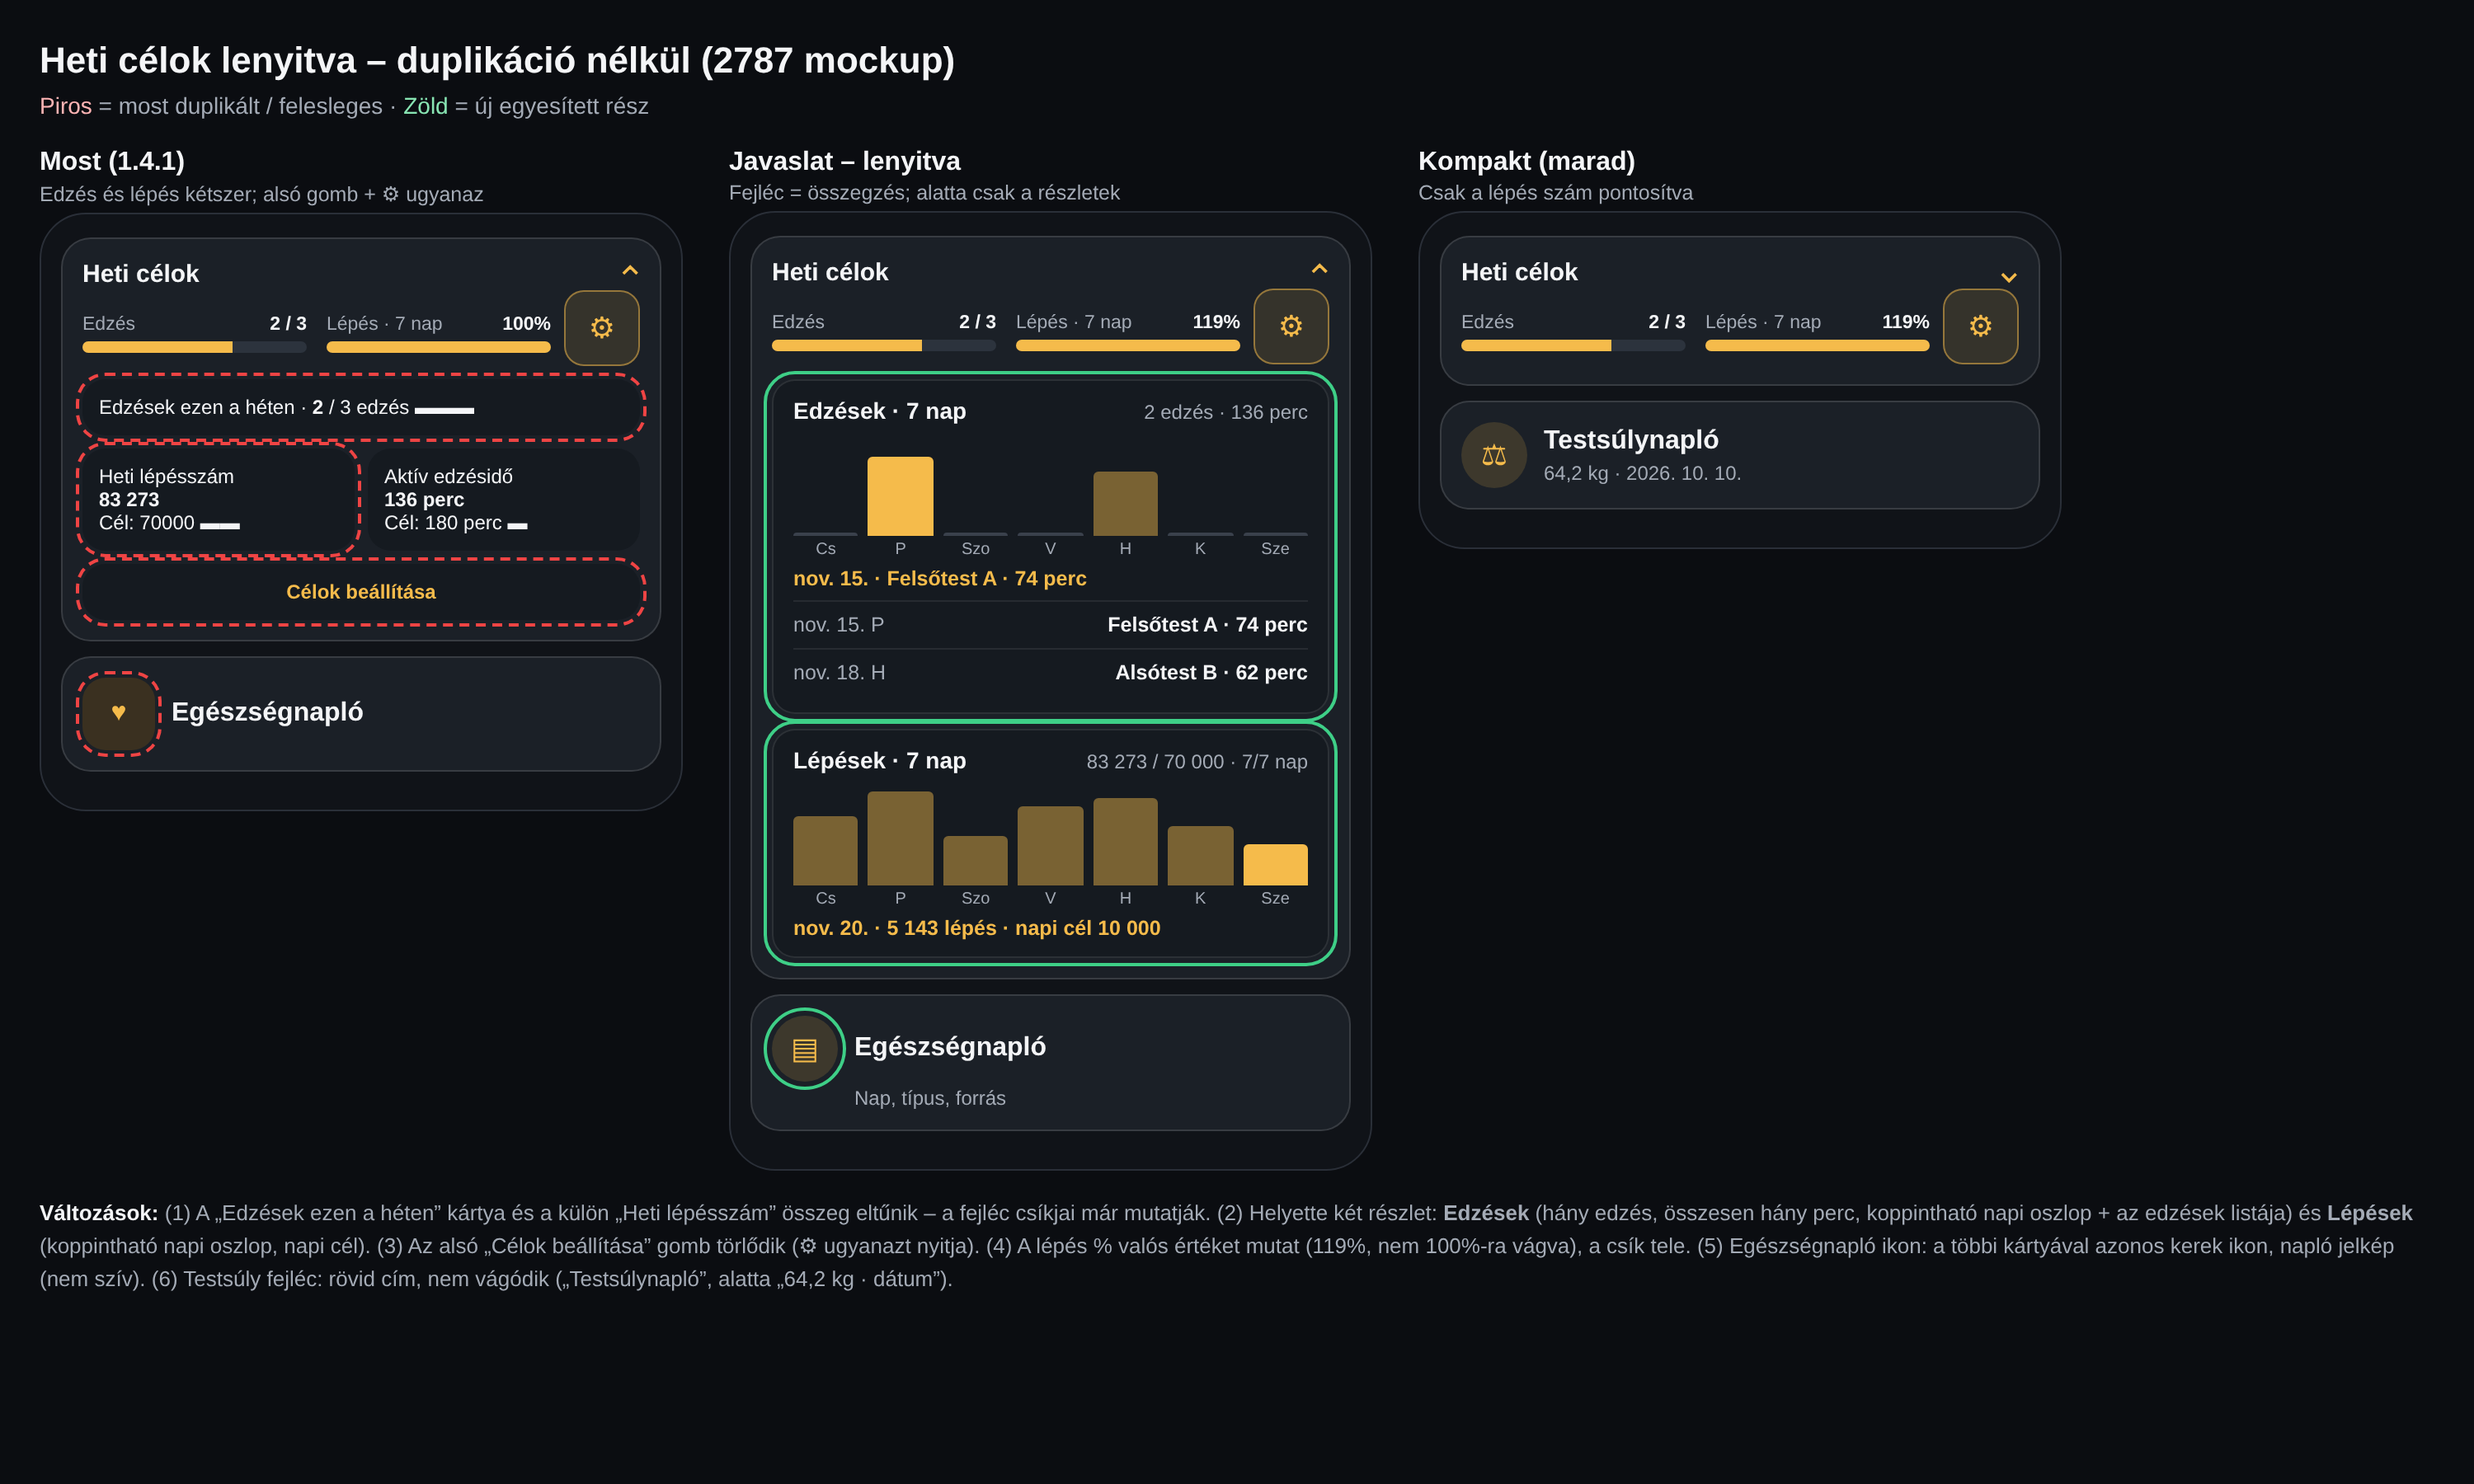
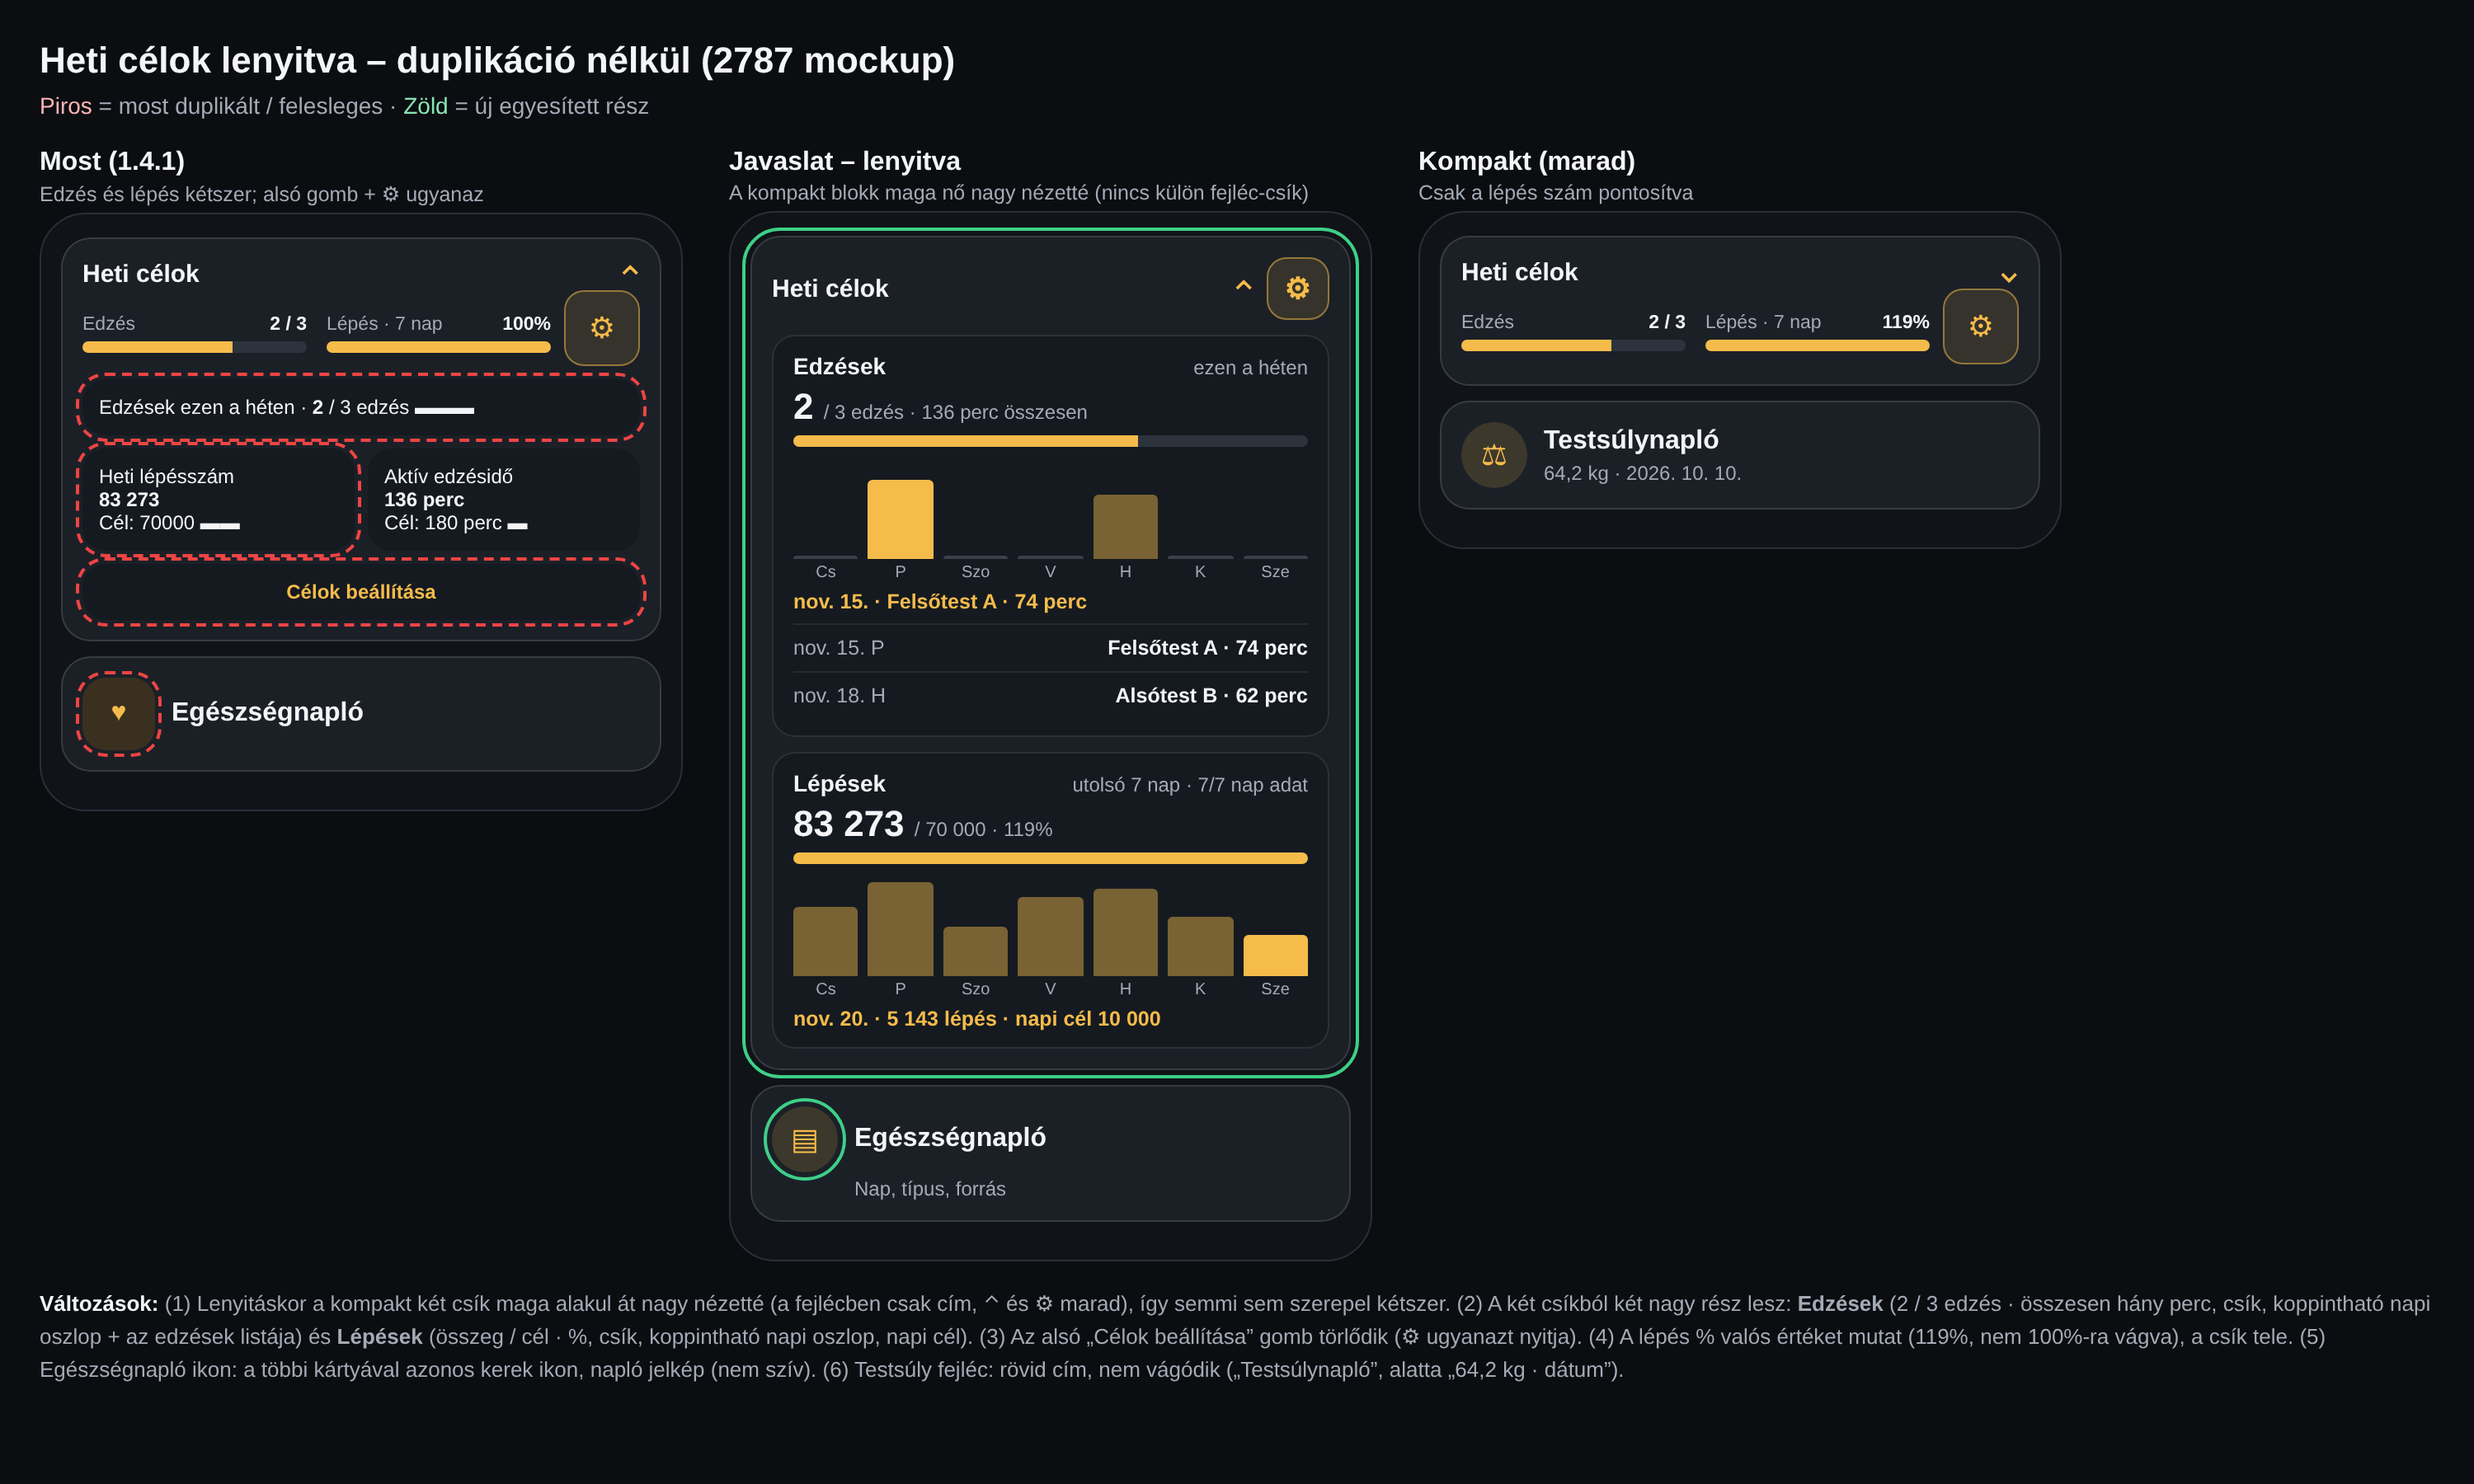
2787 collector: compact block itself grows into the big view (mockup v2) [skip ci]
Claude-Session: https://claude.ai/code/session_0172QQjRSU47AvvHpeVRQtvo

Changed region(s): [[0.0, 0.1244, 0.961, 0.9333]]

diff --git a/docs/FIXES_2787.md b/docs/FIXES_2787.md
@@ -4,9 +4,9 @@ Mockup: [`docs/mockups/2787_health_weekly_goals.png`](mockups/2787_health_weekly
 
 | # | Hol | Visszajelzés | Javaslat | Állapot |
 |---|-----|--------------|----------|---------|
-| 1 | Egészség – Heti célok lenyitva | „Edzések ezen a héten” kétszer (fejléc csík + külön kártya) | A külön kártya törlődik; a fejléc csík marad az összegzés | jóváhagyásra vár |
-| 2 | Egészség – Heti célok lenyitva | Lépés kétszer (fejléc % + „Heti lépésszám” kártya) | Egy „Lépések · 7 nap” rész: összeg/cél + mért napok a fejlécében, koppintható napi oszlopok, infósor napi céllal | jóváhagyásra vár |
-| 3 | Egészség – Aktív edzésidő | Mutassa, hány edzés és összesen mennyi idő | „Edzések · 7 nap”: „2 edzés · 136 perc”, koppintható napi oszlopok (perc), alatta az edzések listája (dátum, név, perc) – valós Room-napló | jóváhagyásra vár |
+| 1 | Egészség – Heti célok lenyitva | „Edzések ezen a héten” kétszer (fejléc csík + külön kártya); lenyitva a kompakt résznek kell nagy nézetté alakulnia | Lenyitáskor a kompakt két csík maga alakul át nagy nézetté (fejlécben csak cím, ⌃, ⚙); nincs külön összegző csík és külön kártya | jóváhagyásra vár |
+| 2 | Egészség – Heti célok lenyitva | Lépés kétszer (fejléc % + „Heti lépésszám” kártya) | A lépés csíkból „Lépések” nagy rész: összeg / cél · %, csík, mért napok, koppintható napi oszlopok, infósor napi céllal | jóváhagyásra vár |
+| 3 | Egészség – Aktív edzésidő | Mutassa, hány edzés és összesen mennyi idő | Az edzés csíkból „Edzések” nagy rész: „2 / 3 edzés · 136 perc összesen”, csík, koppintható napi oszlopok (perc), alatta az edzések listája (dátum, név, perc) – valós Room-napló | jóváhagyásra vár |
 | 4 | Egészség – Heti célok alja | „Célok beállítása” sáv felesleges, a ⚙ gomb ugyanazt nyitja | Alsó gomb törlése | jóváhagyásra vár |
 | 5 | Heti célok – lépés % | 83 273 / 70 000 mellett „100%” látszik | Valós % (pl. 119%), a csík tele marad | jóváhagyásra vár |
 | 6 | Egészségnapló kártya | Az ikon furcsán néz ki | A többi kártyához igazított kerek ikon, napló jelkép (nem szív) | jóváhagyásra vár |
